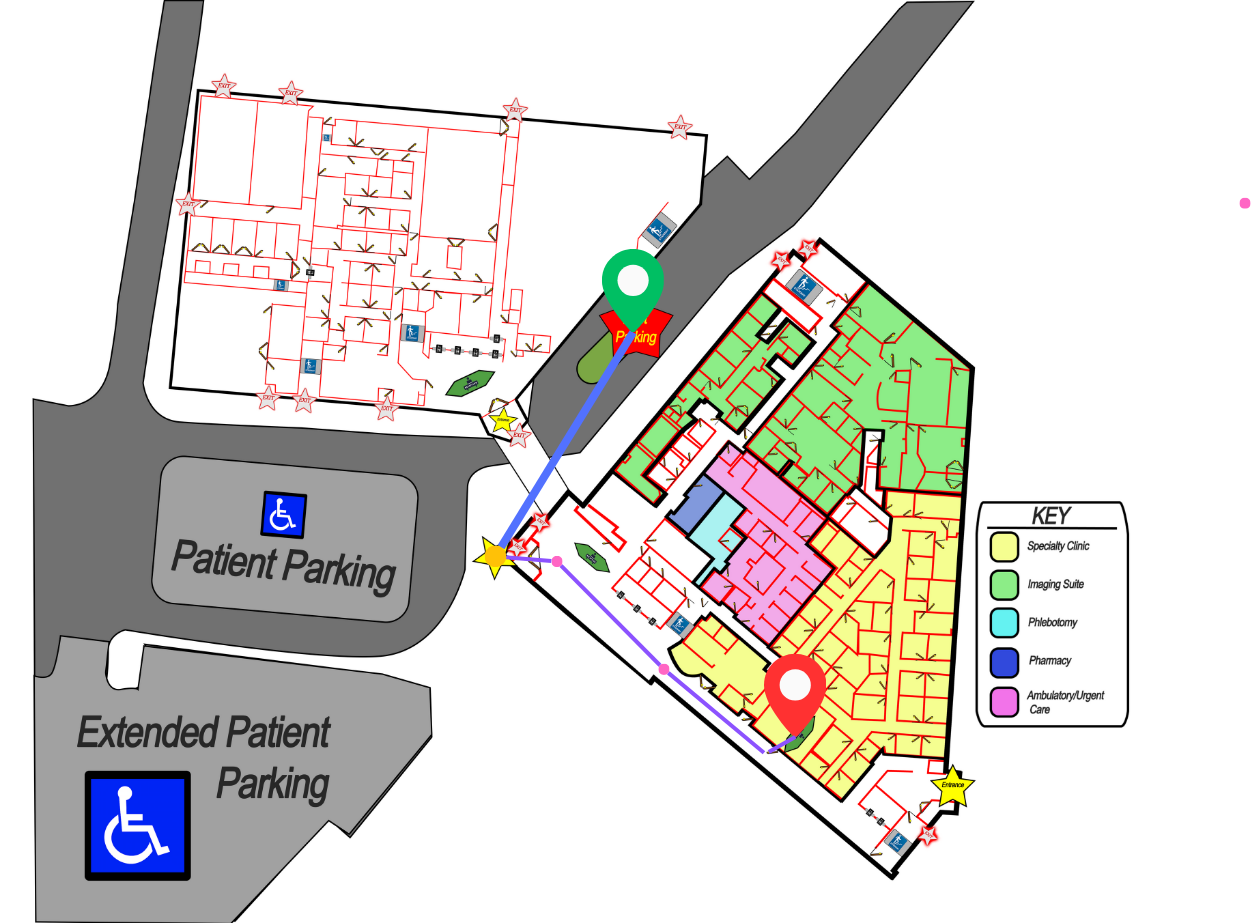
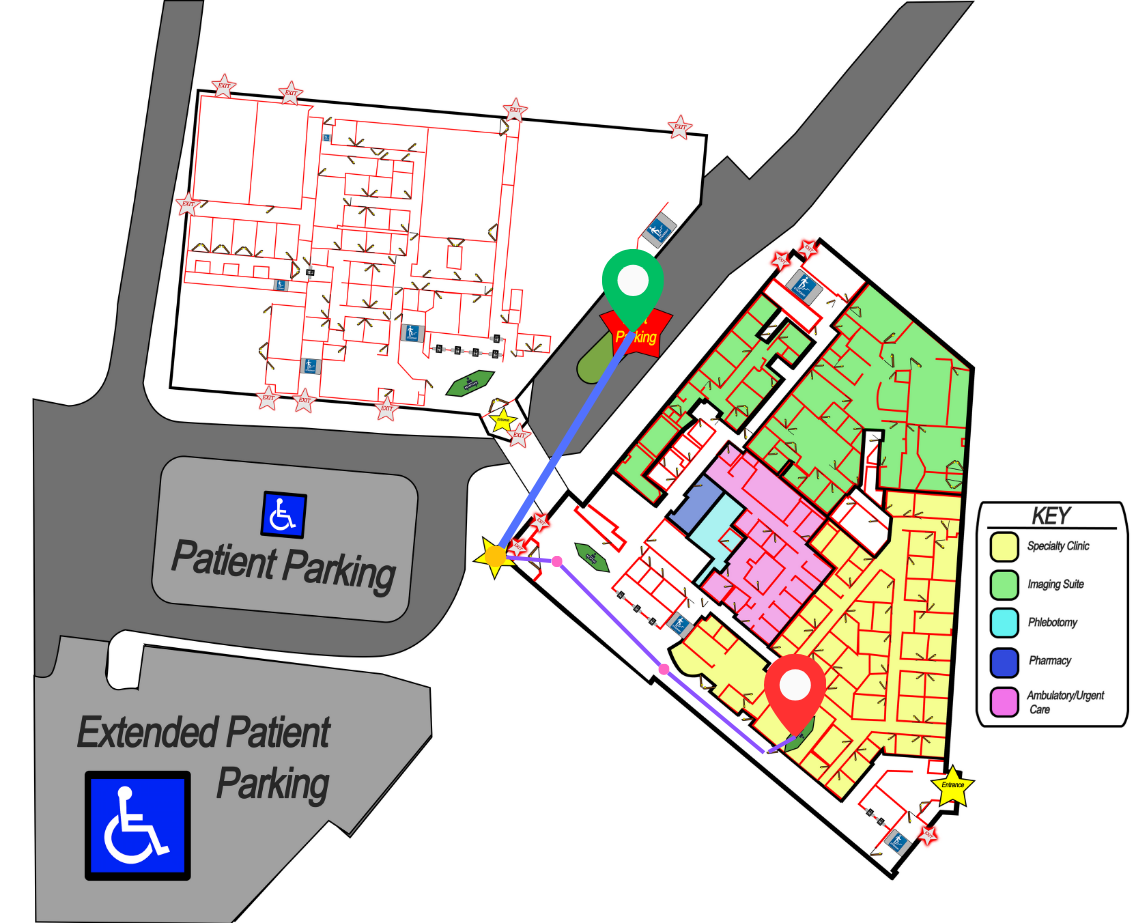
fix: revise default image size to match others, fix random dot in one internal map

diff --git a/apps/frontend/src/components/InternalMap.tsx b/apps/frontend/src/components/InternalMap.tsx
@@ -33,7 +33,7 @@ const InternalMap: React.FC<InternalMapProps> = ({ parkingLot, reception }) => {
                 />
             ) : (
                 <img
-                    src="/FinalFloorPlan-It1.png"
+                    src="/FinalFloorPlan-It1-resize.png"
                     alt="Default Map"
                     className="rounded-xl shadow-md max-w-full"
                 />
